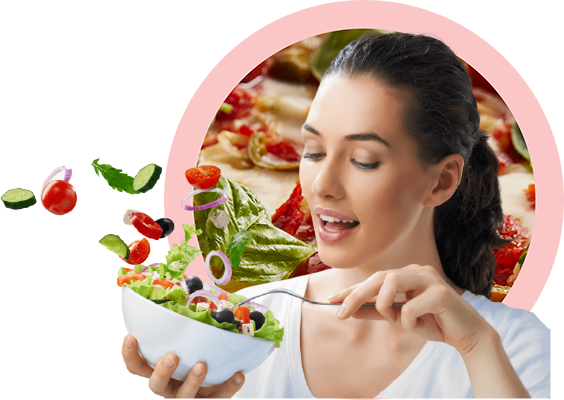
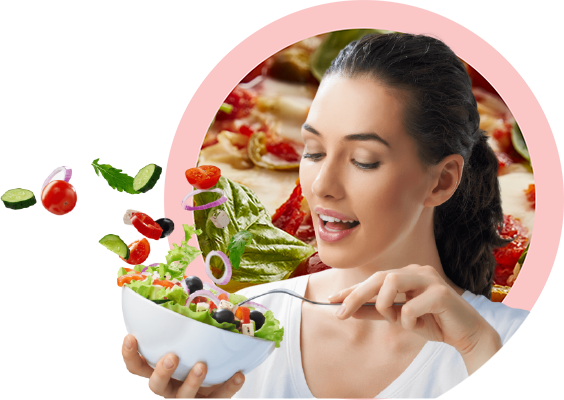
healthy food image added

Changed region(s): [[0.7535, 0.78, 0.9947, 1.0]]

diff --git a/index.html b/index.html
@@ -18,7 +18,9 @@
             <section class="tenpx-vspace"></section>
             <a class="button" target="_blank" href="">Order Food</a>
         </div>
-        <div class="half-width"></div>
+        <div class="half-width">
+            <img id="healthy-food" src="img/eating-healthy-food.png" alt="">
+        </div>
     </section>
     <section class="container">
         

diff --git a/css/index_style.css b/css/index_style.css
@@ -40,6 +40,10 @@ h1 {
     border-radius: 25px;
 }
 
+#healthy-food {
+    width: 95%;
+}
+
 .tenpx-vspace {
     display: block;
     width: 100%;
